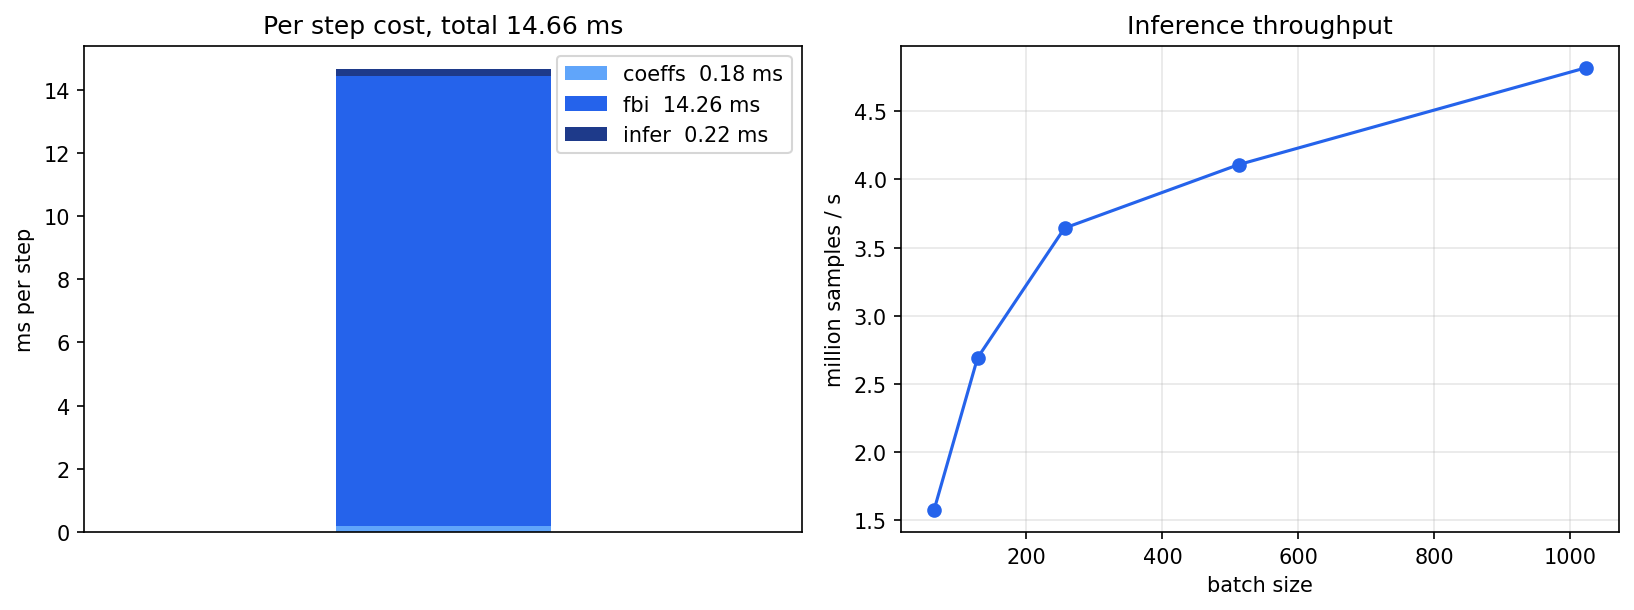
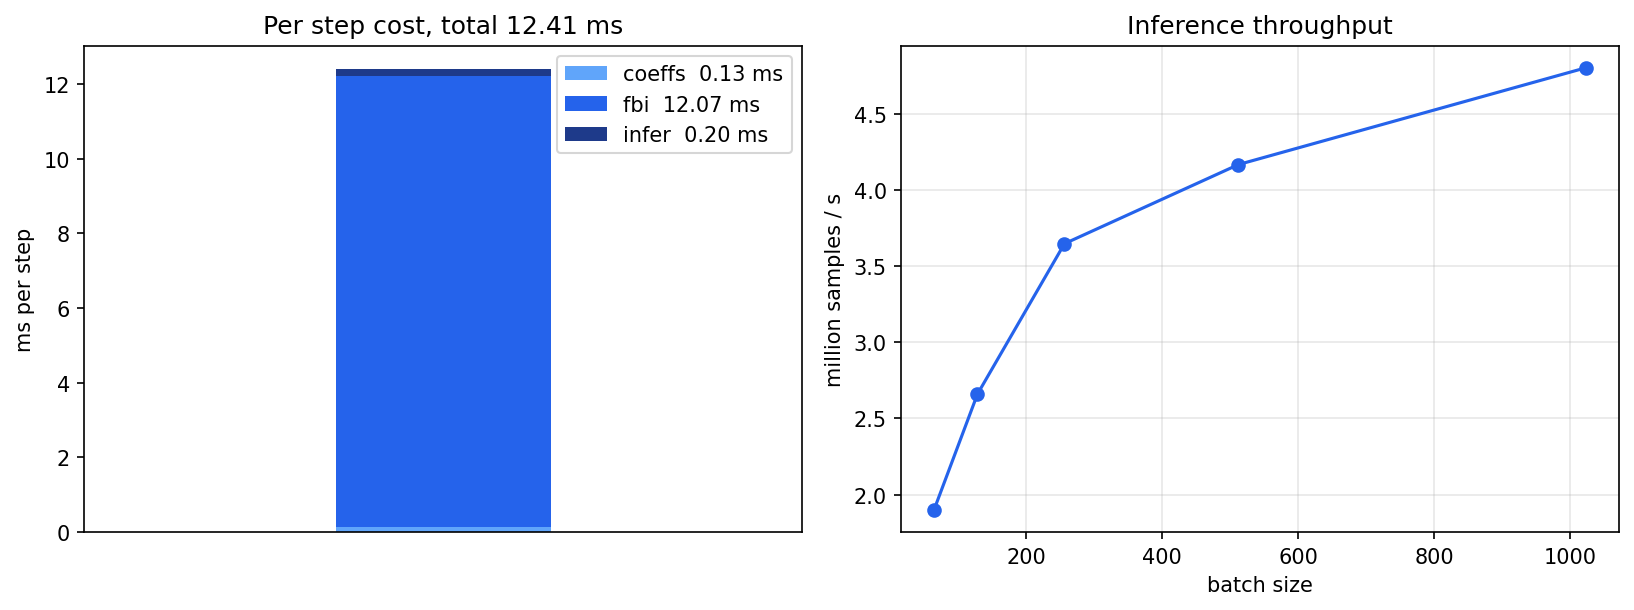
wm example in doc

diff --git a/README.md b/README.md
@@ -175,13 +175,31 @@ After warmup the full step, coefficients, solve and inference together, runs at 
 
 ## Examples
 
-The repository ships runnable examples for a drone and a double pendulum, at the high level `NSTJAX` interface and a lower level direct solve.
+The repository ships runnable examples for a drone and a double pendulum, at the high level `NSTJAX` interface and a lower level direct solve, plus a world model example that learns the plant online and re-solves FBI on it.
 
 <p align="center">
   <img src="docs/figures/pendulum_phase.png" width="840" alt="Double pendulum nominal manifold and tracking">
 </p>
 
 <p align="center"><em>Double pendulum: the nominal manifold phase portrait, and the reference tracked on the manifold.</em></p>
+
+---
+
+### World model learning with FBI
+
+`example_wm_fbi.py` closes the loop around a learned plant. The true pendulum is unknown; the controller starts from a deliberately wrong nominal prior and corrects it with a neural residual, a neural-ODE world model `f_hat(x, u) = f_nominal(x, u) + MLP(x, u)`. Each round runs the same three steps:
+
+1. **Solve.** Taylor expand the current `f_hat` at the operating point and run the FBI solve to get the manifold `theta` and feedforward `lambda` for the learned model, plus a feedback gain by pole placement on its linearization.
+2. **Roll out.** Drive the true system in closed loop with feedforward plus feedback plus a decaying dither, and collect the on-policy transitions.
+3. **Learn.** Aggregate the transitions across rounds and fit the residual MLP by matching a one step RK4 prediction to the next state.
+
+As the world model improves, the FBI solution computed on it approaches the one computed on the true plant, so the learned manifold and feedforward converge to the oracle and the closed loop tracking error drops to the oracle floor.
+
+<p align="center">
+  <img src="docs/figures/world_model_convergence.png" width="840" alt="World model FBI convergence">
+</p>
+
+<p align="center"><em>World model learning: the learned manifold and feedforward errors against the true FBI solution, and the closed loop tracking error converging to the oracle bound.</em></p>
 
 ---
 